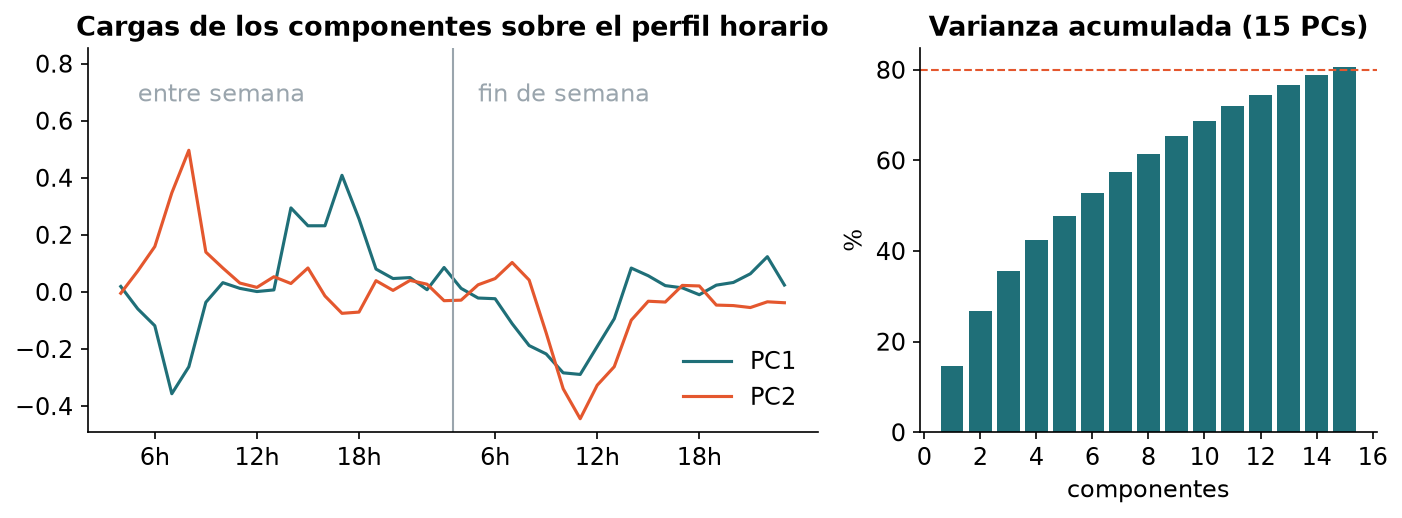
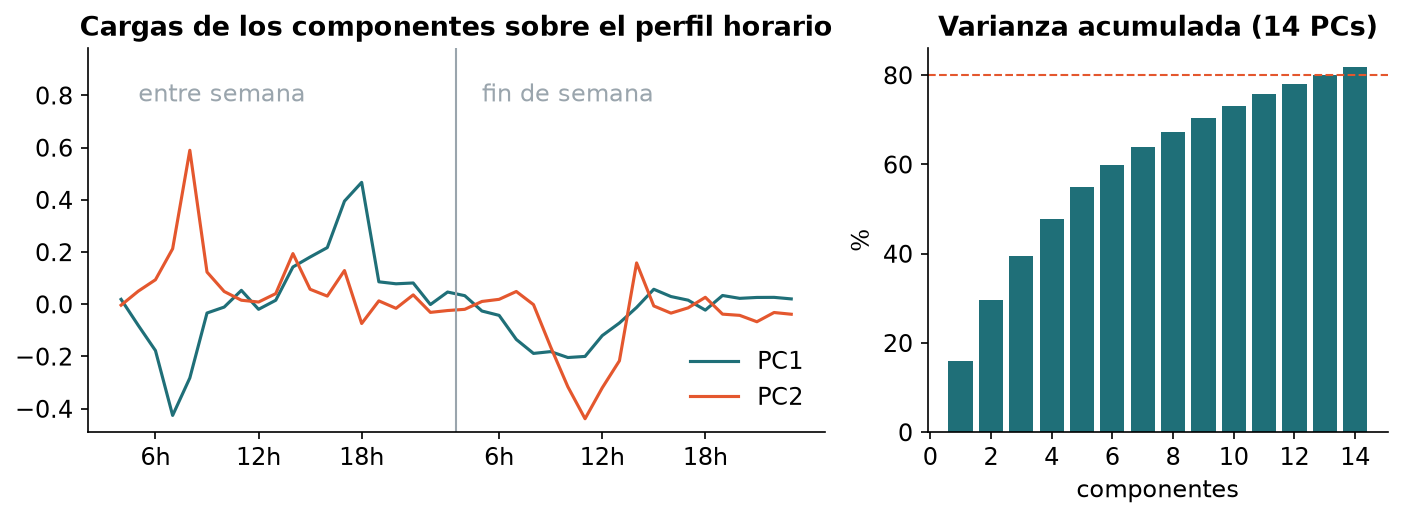
Pipeline de scikit-learn: preprocesamiento + estimador en un solo objeto
mibici/modeling/pipeline.py arma Pipeline([preprocesamiento, modelo]):
  * ciclicas: seno y coseno de hora_dia y dia_semana
  * numericas: StandardScaler (capacidad, lat, lon, rezagos)
  * municipio: OneHotEncoder(handle_unknown=ignore)
  * perfil_estacion: StationProfilePCA, transformador propio que resume el
    perfil horario de cada estación con PCA al 80 % de varianza; se ajusta
    solo con entrenamiento y una estación nueva recibe el perfil promedio
  * binarias: fin_de_semana y festivo sin cambios
config.HORIZON fija qué rezagos entran (24h excluye lag_1h y media_24h).

plots.py ajusta el mismo StationProfilePCA para las figuras 7 y 8 y agrega
las gráficas de pronóstico (semana de la estación con más demanda y MAE por
hora del día). Pruebas con datos sintéticos para la codificación cíclica,
el PCA de perfiles, el escalado con estadísticas de train y el ajuste.

Claude-Session: https://claude.ai/code/session_01PaY3D5rALNQrVkpKddafF1

diff --git a/mibici/modeling/pipeline.py b/mibici/modeling/pipeline.py
@@ -1,0 +1,109 @@
+"""Pipeline de scikit-learn: preprocesamiento + modelo en un solo objeto.
+
+Todo lo que se aprende de los datos (medias del escalado, categorías del one-hot, perfil de
+cada estación y su PCA) se ajusta con fit() únicamente sobre entrenamiento. Como el Pipeline
+completo se guarda en el Model Registry, la inferencia aplica exactamente las mismas
+transformaciones que el entrenamiento.
+
+Etapas:
+  1. "ciclicas"         seno y coseno de la hora y del día de la semana
+  2. "numericas"        StandardScaler sobre capacidad, ubicación y rezagos
+  3. "municipio"        one-hot de GDL, ZPN y TLQ
+  4. "perfil_estacion"  StationProfilePCA: la estación como sus componentes PCA
+  5. "binarias"         fin de semana y festivo, sin cambios
+  6. "modelo"           el estimador de la familia (ver MODELS en mibici/modeling/tune.py)
+"""
+
+import numpy as np
+import pandas as pd
+from sklearn.base import BaseEstimator, TransformerMixin
+from sklearn.compose import ColumnTransformer
+from sklearn.decomposition import PCA
+from sklearn.pipeline import Pipeline
+from sklearn.preprocessing import FunctionTransformer, OneHotEncoder, StandardScaler
+
+from mibici import config
+
+CYCLIC_PERIODS = {"hora_dia": 24, "dia_semana": 7}
+PROFILE_COLUMNS = ["estacion_id", "fin_de_semana", "hora_dia"]
+
+
+def numeric_columns(horizon: str = config.HORIZON) -> list[str]:
+    """Variables numéricas disponibles al momento de pronosticar. Con 24 h de anticipación
+    no se conocen la hora anterior ni la media de las últimas 24 h."""
+    columns = ["capacidad", "lat", "lon", "lag_24h", "lag_168h"]
+    return columns + ["lag_1h", "media_24h"] if horizon == "1h" else columns
+
+
+def input_columns(horizon: str = config.HORIZON) -> list[str]:
+    """Columnas de v4 que recibe el Pipeline (sin la variable objetivo)."""
+    columns = [*CYCLIC_PERIODS, *numeric_columns(horizon), "municipio", *PROFILE_COLUMNS,
+               "fin_de_semana", "festivo"]  # fmt: skip
+    return list(dict.fromkeys(columns))  # sin duplicados, en orden
+
+
+def cyclic_encode(X: pd.DataFrame) -> np.ndarray:
+    """Seno y coseno de cada columna: las 23 h quedan junto a las 0 h y el domingo junto al lunes."""
+    parts = []
+    for column, period in CYCLIC_PERIODS.items():
+        angle = 2 * np.pi * X[column].to_numpy() / period
+        parts += [np.sin(angle), np.cos(angle)]
+    return np.column_stack(parts)
+
+
+def cyclic_names(transformer, input_features) -> list[str]:
+    return [f"{c}_{f}" for c in CYCLIC_PERIODS for f in ("sin", "cos")]
+
+
+class StationProfilePCA(TransformerMixin, BaseEstimator):
+    """Representa cada estación con su patrón de uso en lugar de 469 columnas one-hot.
+
+    fit: calcula el perfil de cada estación (salidas medias por hora de servicio, entre semana
+    y en fin de semana, divididas entre su media) y lo reduce con PCA hasta explicar `variance`.
+    Usa la variable objetivo, igual que una codificación por objetivo, por eso solo debe
+    ajustarse con entrenamiento (el Pipeline lo garantiza).
+    transform: devuelve los componentes de la estación; una estación nueva recibe el perfil
+    promedio (ceros).
+    """
+
+    def __init__(self, variance: float = config.PCA_VARIANCE, random_state=config.SEED):
+        self.variance = variance
+        self.random_state = random_state
+
+    def fit(self, X: pd.DataFrame, y):
+        data = X[PROFILE_COLUMNS].assign(salidas=np.asarray(y))
+        profiles = data.groupby(PROFILE_COLUMNS)["salidas"].mean().unstack([1, 2])
+        profiles.columns = [f"{'finde' if w else 'semana'}_{h:02d}" for w, h in profiles.columns]
+        profiles = profiles.div(profiles.mean(axis=1), axis=0).fillna(0)
+        self.pca_ = PCA(self.variance, svd_solver="full", random_state=self.random_state)
+        codes = self.pca_.fit_transform(profiles)
+        self.codes_ = pd.DataFrame(codes, index=profiles.index)
+        self.n_components_ = self.pca_.n_components_
+        return self
+
+    def transform(self, X: pd.DataFrame) -> np.ndarray:
+        return self.codes_.reindex(X["estacion_id"].to_numpy()).fillna(0).to_numpy()
+
+    def get_feature_names_out(self, input_features=None) -> np.ndarray:
+        return np.array([f"pc{i + 1}" for i in range(self.n_components_)])
+
+
+def build_preprocessor(horizon: str = config.HORIZON) -> ColumnTransformer:
+    return ColumnTransformer(
+        [
+            ("ciclicas", FunctionTransformer(cyclic_encode, feature_names_out=cyclic_names),
+             list(CYCLIC_PERIODS)),
+            ("numericas", StandardScaler(), numeric_columns(horizon)),
+            ("municipio", OneHotEncoder(handle_unknown="ignore", sparse_output=False),
+             ["municipio"]),
+            ("perfil_estacion", StationProfilePCA(), PROFILE_COLUMNS),
+            ("binarias", "passthrough", ["fin_de_semana", "festivo"]),
+        ],
+        verbose_feature_names_out=False,
+    )  # fmt: skip
+
+
+def build_pipeline(estimator, horizon: str = config.HORIZON) -> Pipeline:
+    """Preprocesamiento + estimador. Con un DataFrame de entrada, el Pipeline toma solo las
+    columnas de input_columns(horizon) y descarta el resto (incluida la variable objetivo)."""
+    return Pipeline([("preprocesamiento", build_preprocessor(horizon)), ("modelo", estimator)])

diff --git a/mibici/plots.py b/mibici/plots.py
@@ -1,12 +1,11 @@
-"""Figuras del análisis exploratorio (se guardan en reports/figures).
+"""Figuras del análisis exploratorio (reports/figures) y de evaluación de modelos.
 
 Comando:
-    python -m mibici.plots
+    python -m mibici.plots   # figuras del EDA, también registradas en MLflow
 """
 
 import json
 
-import joblib
 from loguru import logger
 import matplotlib
 import matplotlib.ticker
@@ -21,6 +20,7 @@ import typer
 
 from mibici import config
 from mibici.dataset import load_stations
+from mibici.modeling.pipeline import StationProfilePCA
 
 app = typer.Typer()
 
@@ -95,7 +95,7 @@ def plot_monthly(trips: pd.DataFrame) -> None:
 
 
 def plot_heatmap(panel: pd.DataFrame) -> None:
-    grid = panel.groupby([panel["hora"].dt.dayofweek, panel["hora"].dt.hour])["salidas"].sum()
+    grid = panel.groupby([panel["hora"].dt.day_of_week, panel["hora"].dt.hour])["salidas"].sum()
     grid = grid.unstack().reindex(columns=range(24))  # horas sin servicio quedan en blanco
     grid = grid / panel["hora"].dt.normalize().nunique() * 7  # salidas por día de la semana
     fig, ax = plt.subplots(figsize=(8, 3.2))
@@ -170,6 +170,37 @@ def plot_pca(pca, comps: pd.DataFrame, stations: pd.DataFrame, trips: pd.DataFra
     save(fig, "fig8_mapa_pc1.png")
 
 
+def plot_forecast_week(df: pd.DataFrame, pred, days: int = 7):
+    """Salidas reales y pronosticadas de la estación con más demanda en la primera semana."""
+    data = df.assign(pred=np.asarray(pred))
+    station = data.groupby("estacion_id")["salidas"].sum().idxmax()
+    data = data[data["estacion_id"] == station].sort_values("hora")
+    data = data[data["hora"] < data["hora"].min().normalize() + pd.Timedelta(days=days)]
+    fig, ax = plt.subplots(figsize=(9, 3.2))
+    ax.plot(data["hora"], data["salidas"], color=GRAY, lw=1.2, label="real")
+    ax.plot(data["hora"], data["pred"], color=RED, lw=1.6, label="pronóstico")
+    ax.set_title(f"Estación {station}: salidas por hora, real vs. pronóstico")
+    ax.set_ylabel("salidas")
+    ax.legend(frameon=False, ncols=2, loc="upper right")
+    fig.autofmt_xdate()
+    fig.tight_layout()
+    return fig
+
+
+def plot_error_by_hour(df: pd.DataFrame, predictions: dict):
+    """MAE por hora del día de cada modelo: muestra dónde está el error (horas pico)."""
+    fig, ax = plt.subplots(figsize=(8, 3.2))
+    for (name, pred), color in zip(predictions.items(), [RED, GRAY, ACCENT]):
+        error = (df["salidas"] - np.asarray(pred)).abs().groupby(df["hora_dia"]).mean()
+        ax.plot(error.index, error.values, marker="o", ms=3, color=color, label=name)
+    ax.set_title("Error absoluto medio por hora del día")
+    ax.set_xlabel("hora")
+    ax.set_ylabel("MAE (salidas)")
+    ax.legend(frameon=False)
+    fig.tight_layout()
+    return fig
+
+
 @app.command()
 def main():
     raw = pd.read_parquet(config.INTERIM_DATA_DIR / "trips_raw.parquet", columns=["inicio", "fin"])
@@ -177,8 +208,12 @@ def main():
     panel = pd.read_parquet(config.PROCESSED_DATA_DIR / "demand_panel.parquet")
     stations = load_stations()
     report = json.loads((config.REPORTS_DIR / "reporte_limpieza.json").read_text())
-    comps = pd.read_csv(config.MODELS_DIR / "pca_componentes_por_estacion.csv", index_col=0)
-    pca = joblib.load(config.MODELS_DIR / "pca_perfiles.joblib")
+    # El PCA de perfiles es el mismo transformador que usa el Pipeline, ajustado con train
+    model_input = pd.read_parquet(config.PROCESSED_DATA_DIR / "model_input.parquet")
+    train = model_input[model_input["particion"] == "train"]
+    station_pca = StationProfilePCA().fit(train, train["salidas"])
+    comps = pd.DataFrame(station_pca.codes_.to_numpy(), index=station_pca.codes_.index,
+                         columns=station_pca.get_feature_names_out())  # fmt: skip
 
     plot_cleaning(report)
     plot_duration(raw)
@@ -186,7 +221,7 @@ def main():
     plot_heatmap(panel)
     plot_demand_distribution(panel)
     plot_top_stations(trips, stations)
-    plot_pca(pca, comps, stations, trips)
+    plot_pca(station_pca.pca_, comps, stations, trips)
 
     # Las figuras también quedan versionadas en MLflow como artefactos del EDA
     mlflow.set_tracking_uri(config.MLFLOW_TRACKING_URI)

diff --git a/tests/test_pipeline.py b/tests/test_pipeline.py
@@ -1,0 +1,87 @@
+"""Pruebas del Pipeline de scikit-learn con datos sintéticos (no requieren descargar nada)."""
+
+import numpy as np
+import pandas as pd
+import pytest
+
+from mibici.modeling.pipeline import (
+    StationProfilePCA,
+    build_pipeline,
+    build_preprocessor,
+    cyclic_encode,
+    input_columns,
+)
+from mibici.modeling.train import MODELS, evaluate, fit_and_evaluate
+
+
+@pytest.fixture
+def data():
+    """Tres estaciones con patrones distintos durante dos semanas de horas de servicio."""
+    rng = np.random.default_rng(0)
+    hours = pd.date_range("2026-03-02", periods=24 * 14, freq="h")
+    hours = hours[~hours.hour.isin([1, 2, 3, 4])]
+    rows = []
+    for sid, peak, municipio in [(1, 8, "GDL"), (2, 18, "ZPN"), (3, 13, "TLQ")]:
+        lam = 1 + 4 * np.exp(-((hours.hour - peak) ** 2) / 8)
+        rows.append(pd.DataFrame({
+            "estacion_id": sid, "hora": hours, "salidas": rng.poisson(lam),
+            "hora_dia": hours.hour, "dia_semana": hours.day_of_week,
+            "fin_de_semana": (hours.day_of_week >= 5).astype(int), "festivo": 0,
+            "capacidad": 10 + sid, "lat": 20.6 + sid / 100, "lon": -103.3 - sid / 100,
+            "municipio": municipio, "lag_1h": rng.poisson(lam), "lag_24h": rng.poisson(lam),
+            "lag_168h": rng.poisson(lam), "media_24h": lam.to_numpy(),
+        }))  # fmt: skip
+    return pd.concat(rows, ignore_index=True)
+
+
+def test_cyclic_encoding_puts_23h_next_to_0h():
+    encoded = cyclic_encode(pd.DataFrame({"hora_dia": [0, 23, 12], "dia_semana": [0, 6, 3]}))
+    hour_0, hour_23, hour_12 = encoded[:, :2]
+    assert np.linalg.norm(hour_0 - hour_23) < np.linalg.norm(hour_0 - hour_12)
+
+
+def test_24h_horizon_does_not_use_recent_information():
+    assert {"lag_1h", "media_24h"}.isdisjoint(input_columns("24h"))
+    assert {"lag_1h", "media_24h"} <= set(input_columns("1h"))
+
+
+def test_station_profile_pca_uses_train_only_and_handles_new_stations(data):
+    encoder = StationProfilePCA(variance=0.9).fit(data, data["salidas"])
+    new_station = data.head(2).assign(estacion_id=99)
+    assert np.allclose(encoder.transform(new_station), 0)  # estación nueva = perfil promedio
+    assert encoder.transform(data).shape == (len(data), encoder.n_components_)
+
+
+def test_preprocessor_scales_with_train_statistics(data):
+    X = data[input_columns("24h")]
+    preprocessor = build_preprocessor("24h").fit(X, data["salidas"])
+    out = pd.DataFrame(preprocessor.transform(X), columns=preprocessor.get_feature_names_out())
+    assert np.allclose(out[["capacidad", "lag_24h", "lag_168h"]].mean(), 0, atol=1e-9)
+    assert {"municipio_GDL", "hora_dia_sin", "pc1"} <= set(out.columns)
+
+
+@pytest.mark.parametrize("model_name, params", [
+    ("poisson_glm", {"alpha": 1e-3}),
+    ("hgb_poisson", {"max_iter": 30, "learning_rate": 0.1}),
+])  # fmt: skip
+def test_pipelines_learn_better_than_the_mean(data, model_name, params):
+    X, y = data[input_columns("24h")], data["salidas"]
+    pred = build_pipeline(MODELS[model_name](params), "24h").fit(X, y).predict(X)
+    assert (pred >= 0).all()  # pérdida Poisson: nunca pronostica salidas negativas
+    assert evaluate(y, pred)["mae"] < evaluate(y, np.full(len(y), y.mean()))["mae"]
+
+
+def test_fit_and_evaluate_trains_on_the_past_and_scores_valid_and_test(data):
+    """De punta a punta: el Pipeline se ajusta con entrenamiento y se evalúa en las otras dos."""
+    day = data["hora"].dt.normalize()
+    parts = {
+        "train": data[day < "2026-03-12"],
+        "valid": data[day.between("2026-03-12", "2026-03-13")],
+        "test": data[day >= "2026-03-14"],
+    }
+    model, metrics, predictions = fit_and_evaluate("hgb_poisson", {"max_iter": 30}, parts, "24h")
+    assert list(model.named_steps) == ["preprocesamiento", "modelo"]
+    assert {"mae_valid", "mae_test", "devianza_poisson_valid", "mae_top_estaciones_test"} <= set(
+        metrics
+    )
+    assert len(predictions["test"]) == len(parts["test"])

diff --git a/mibici/config.py b/mibici/config.py
@@ -53,6 +53,9 @@ PCA_VARIANCE = 0.80
 
 # Selección de modelos y ajuste de hiperparámetros (Fase 2) -------------------
 SEED = 42
+# Horizonte del pronóstico: "24h" = la noche anterior (solo rezagos de 24 h o más); "1h" = la hora
+# siguiente (puede usar la demanda de la hora anterior).
+HORIZON = "24h"
 OPTUNA_TRIALS = 25  # pruebas por familia de modelos
 OPTUNA_SAMPLE_ROWS = 400_000  # muestra de entrenamiento para que cada prueba tarde segundos
 TOP_STATIONS_SHARE = 0.20  # el 20 % de las estaciones genera el 54 % de las salidas
